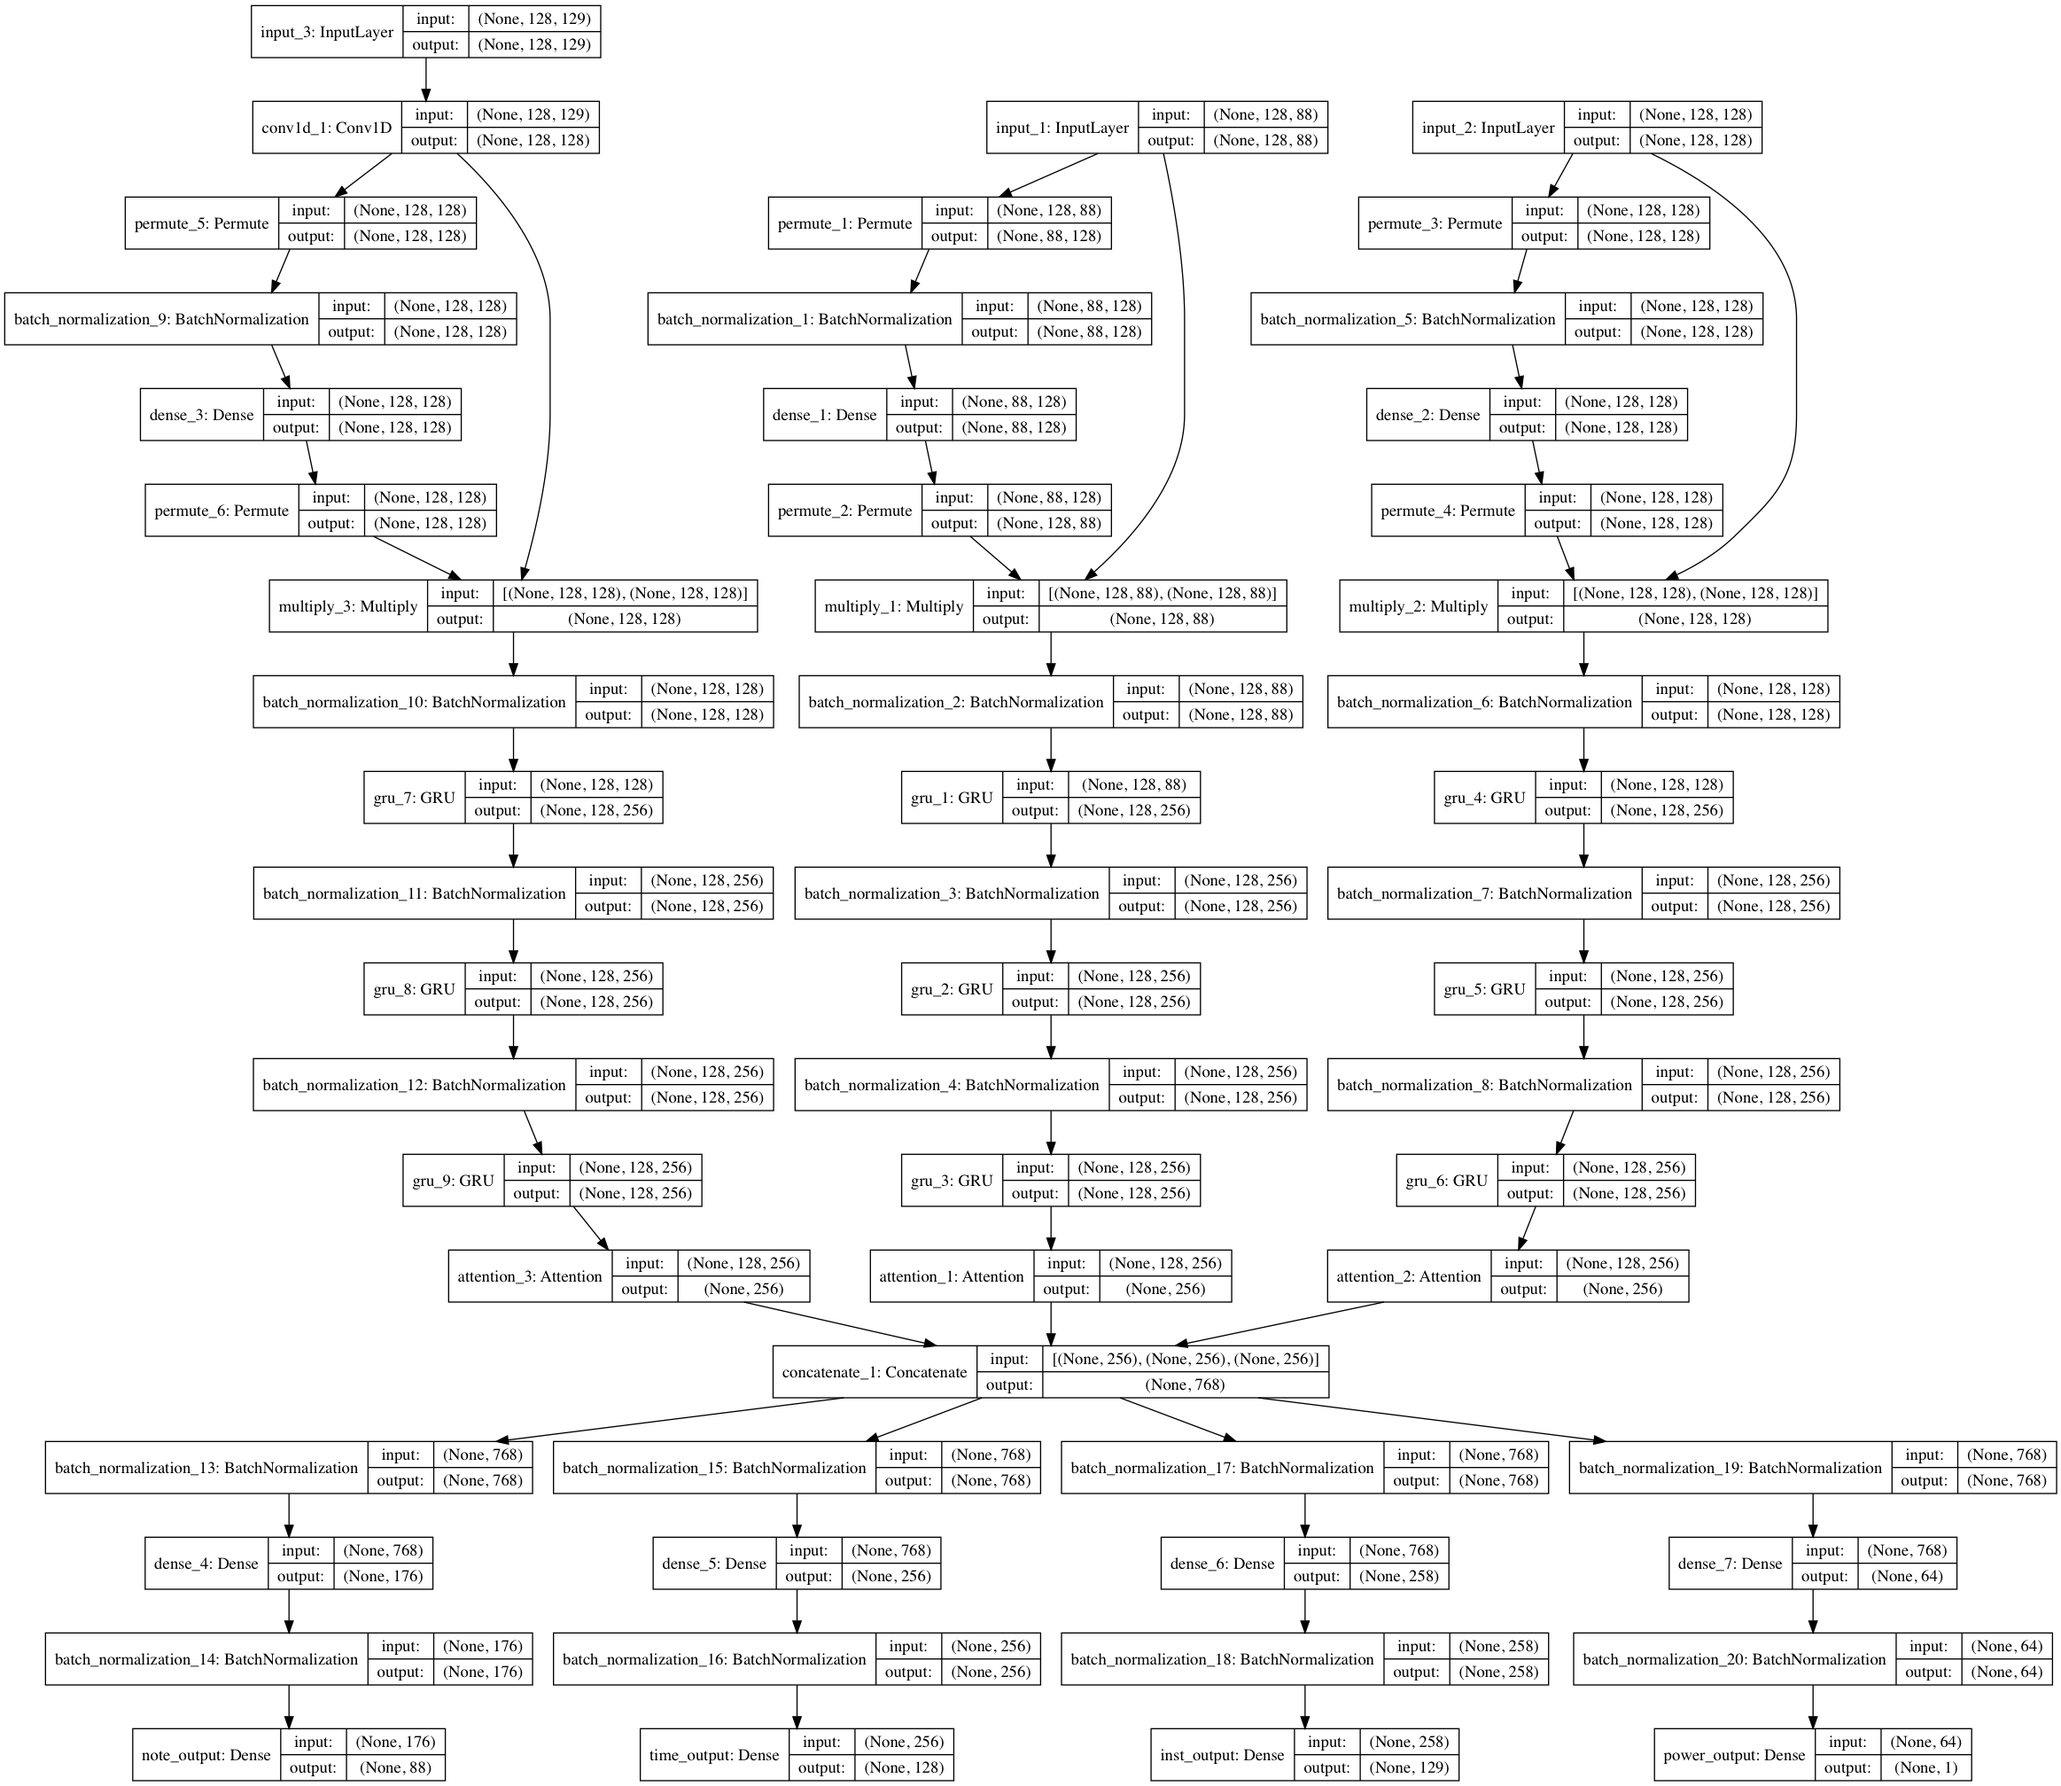
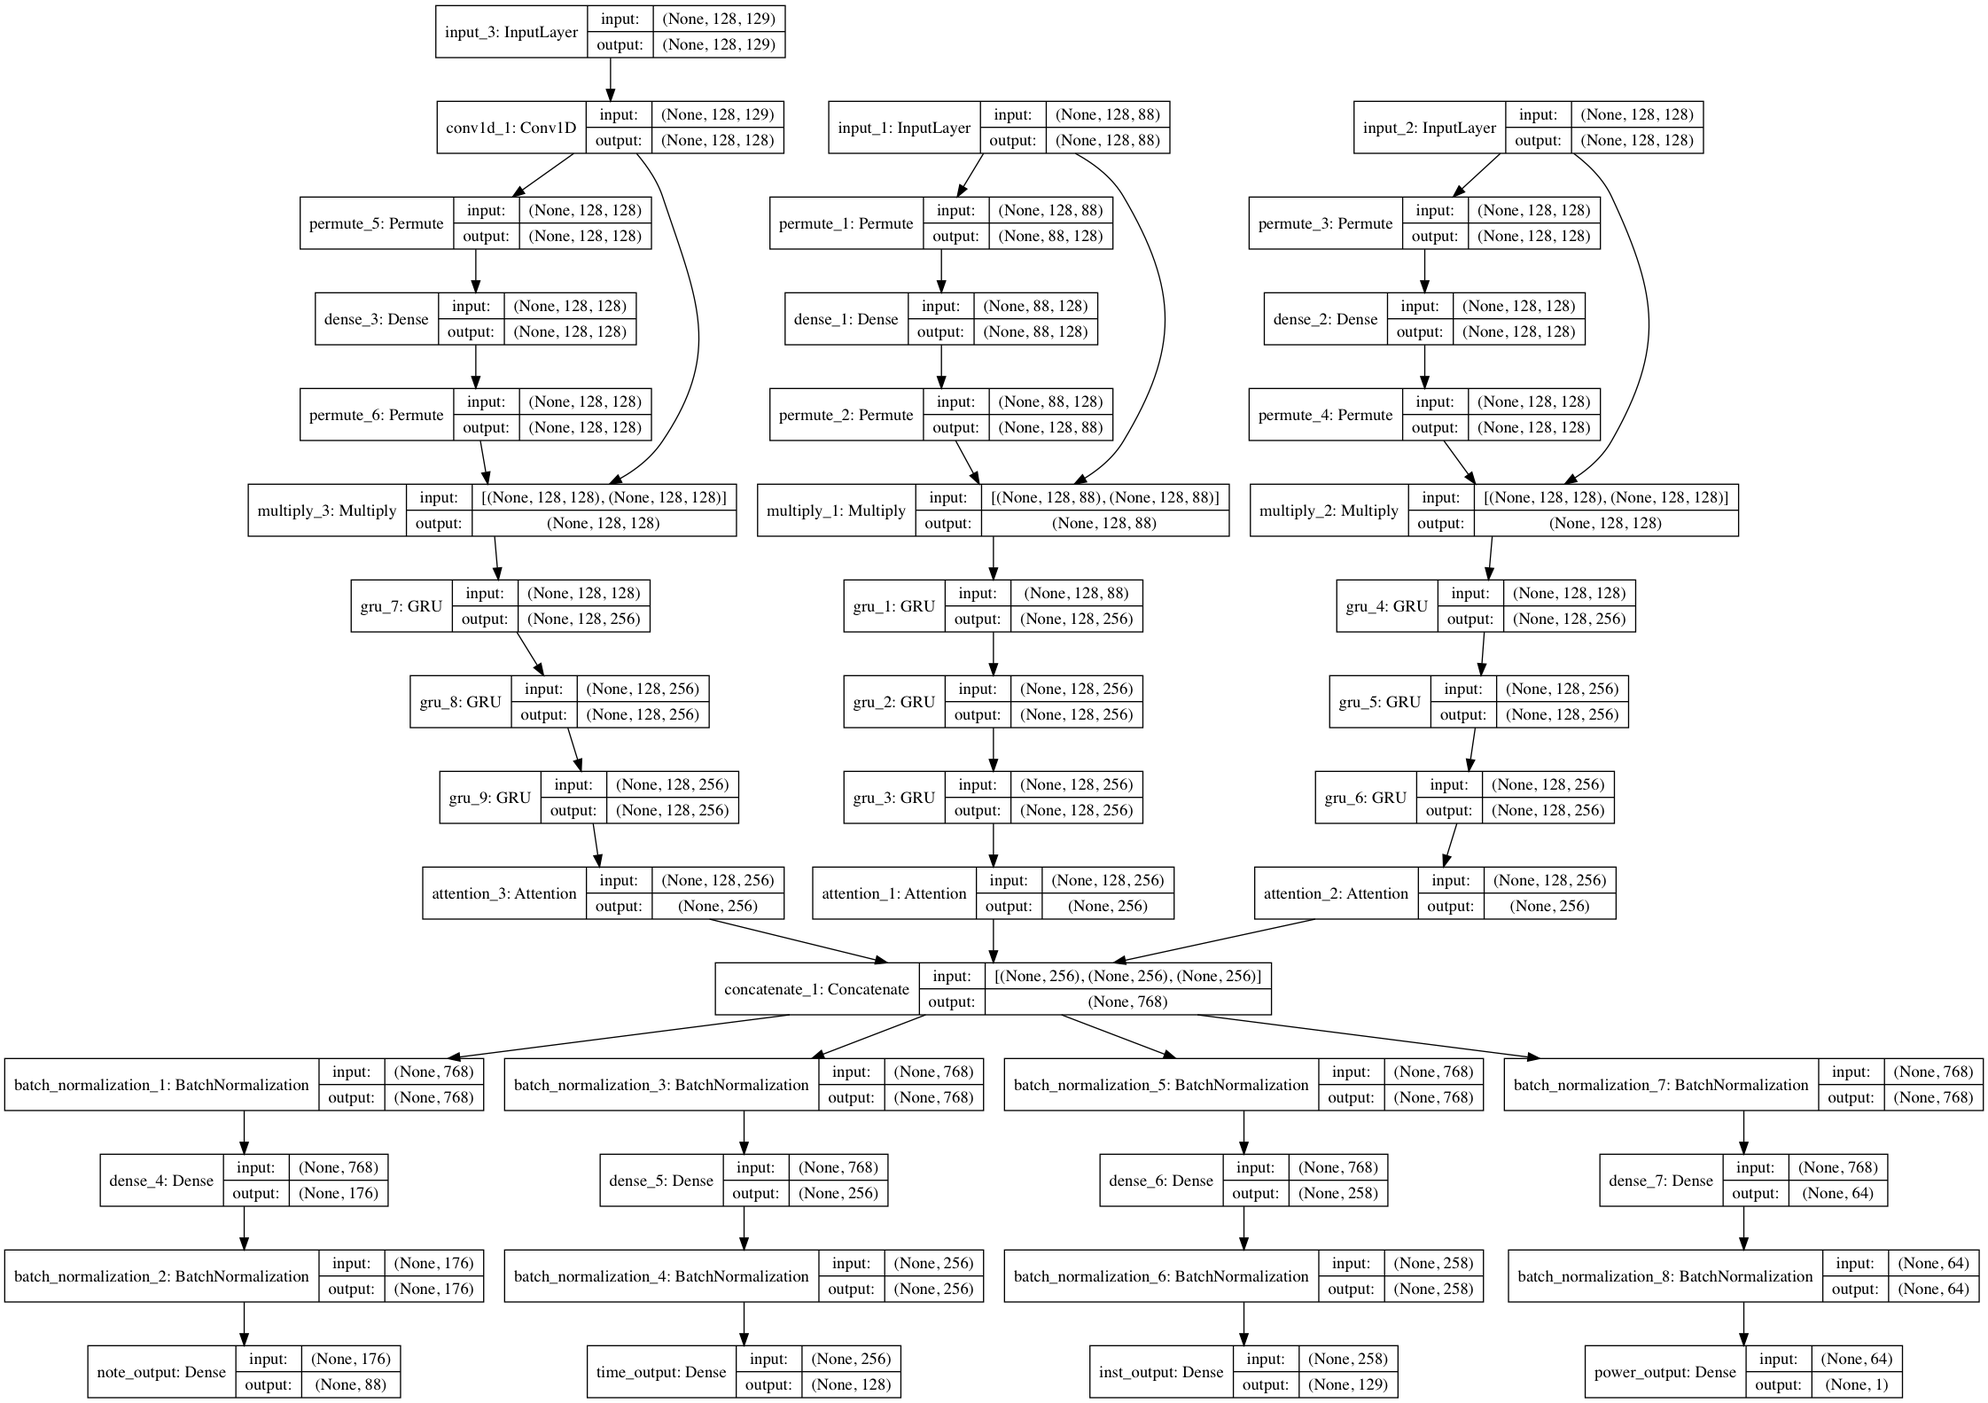
foo

Changed region(s): [[0.0, 0.0, 0.9987, 1.0], [0.8426, 0.7429, 0.8738, 0.7738]]

diff --git a/multiple_instruments/train_dir.py b/multiple_instruments/train_dir.py
@@ -225,23 +225,17 @@ def main():
     # network:
     with tf.device('/gpu:0'):
         noteInput  = Input(shape=(segLen, vecLen))
-        noteAcc    = SoftAttentionBlock(noteInput, segLen)
-        noteEncode = BatchNormalization()(noteAcc)
+        noteEncode = SoftAttentionBlock(noteInput, segLen)
         noteEncode = GRU(hidden_note, return_sequences=True, dropout=drop_rate)(noteEncode)
-        noteEncode = BatchNormalization()(noteEncode)
         noteEncode = GRU(hidden_note, return_sequences=True, dropout=drop_rate)(noteEncode)
-        noteEncode = BatchNormalization()(noteEncode)
         noteEncode = GRU(hidden_note, return_sequences=True, dropout=drop_rate)(noteEncode)
         noteEncode = Attention()(noteEncode)
 
     with tf.device('/gpu:1'):
         deltaInput = Input(shape=(segLen, maxdelta))
-        deltaAcc   = SoftAttentionBlock(deltaInput, segLen)
-        deltaEncode = BatchNormalization()(deltaAcc)
+        deltaEncode = SoftAttentionBlock(deltaInput, segLen)
         deltaEncode = GRU(hidden_delta, return_sequences=True, dropout=drop_rate)(deltaEncode)
-        deltaEncode = BatchNormalization()(deltaEncode)
         deltaEncode = GRU(hidden_delta, return_sequences=True, dropout=drop_rate)(deltaEncode)
-        deltaEncode = BatchNormalization()(deltaEncode)
         deltaEncode = GRU(hidden_delta, return_sequences=True, dropout=drop_rate)(deltaEncode)
         deltaEncode = Attention()(deltaEncode)
 
@@ -249,11 +243,8 @@ def main():
         instInput = Input(shape=(segLen, maxinst))
         instEncode   = Conv1D(filters=filter_size, kernel_size=kernel_size, padding='same', input_shape=(segLen, maxinst), activation = 'relu')(instInput)
         instEncode   = SoftAttentionBlock(instEncode, segLen)
-        instEncode   = BatchNormalization()(instEncode)
         instEncode   = GRU(hidden_inst, return_sequences=True, dropout=drop_rate)(instEncode)
-        instEncode   = BatchNormalization()(instEncode)
         instEncode   = GRU(hidden_inst, return_sequences=True, dropout=drop_rate)(instEncode)
-        instEncode   = BatchNormalization()(instEncode)
         instEncode   = GRU(hidden_inst, return_sequences=True, dropout=drop_rate)(instEncode)
         instEncode   = Attention()(instEncode)
 

diff --git a/multiple_instruments/load.py b/multiple_instruments/load.py
@@ -42,23 +42,17 @@ print('Build model...')
 # network:
 with tf.device('/gpu:0'):
     noteInput  = Input(shape=(segLen, vecLen))
-    noteAcc    = SoftAttentionBlock(noteInput, segLen)
-    noteEncode = BatchNormalization()(noteAcc)
+    noteEncode = SoftAttentionBlock(noteInput, segLen)
     noteEncode = GRU(hidden_note, return_sequences=True, dropout=drop_rate)(noteEncode)
-    noteEncode = BatchNormalization()(noteEncode)
     noteEncode = GRU(hidden_note, return_sequences=True, dropout=drop_rate)(noteEncode)
-    noteEncode = BatchNormalization()(noteEncode)
     noteEncode = GRU(hidden_note, return_sequences=True, dropout=drop_rate)(noteEncode)
     noteEncode = Attention()(noteEncode)
 
 with tf.device('/gpu:1'):
     deltaInput = Input(shape=(segLen, maxdelta))
-    deltaAcc   = SoftAttentionBlock(deltaInput, segLen)
-    deltaEncode = BatchNormalization()(deltaAcc)
+    deltaEncode = SoftAttentionBlock(deltaInput, segLen)
     deltaEncode = GRU(hidden_delta, return_sequences=True, dropout=drop_rate)(deltaEncode)
-    deltaEncode = BatchNormalization()(deltaEncode)
     deltaEncode = GRU(hidden_delta, return_sequences=True, dropout=drop_rate)(deltaEncode)
-    deltaEncode = BatchNormalization()(deltaEncode)
     deltaEncode = GRU(hidden_delta, return_sequences=True, dropout=drop_rate)(deltaEncode)
     deltaEncode = Attention()(deltaEncode)
 
@@ -66,11 +60,8 @@ with tf.device('/gpu:2'):
     instInput = Input(shape=(segLen, maxinst))
     instEncode   = Conv1D(filters=filter_size, kernel_size=kernel_size, padding='same', input_shape=(segLen, maxinst), activation = 'relu')(instInput)
     instEncode   = SoftAttentionBlock(instEncode, segLen)
-    instEncode   = BatchNormalization()(instEncode)
     instEncode   = GRU(hidden_inst, return_sequences=True, dropout=drop_rate)(instEncode)
-    instEncode   = BatchNormalization()(instEncode)
     instEncode   = GRU(hidden_inst, return_sequences=True, dropout=drop_rate)(instEncode)
-    instEncode   = BatchNormalization()(instEncode)
     instEncode   = GRU(hidden_inst, return_sequences=True, dropout=drop_rate)(instEncode)
     instEncode   = Attention()(instEncode)
 

diff --git a/multiple_instruments/summary.py b/multiple_instruments/summary.py
@@ -42,23 +42,17 @@ print('Build model...')
 # network:
 with tf.device('/gpu:0'):
     noteInput  = Input(shape=(segLen, vecLen))
-    noteAcc    = SoftAttentionBlock(noteInput, segLen)
-    noteEncode = BatchNormalization()(noteAcc)
+    noteEncode = SoftAttentionBlock(noteInput, segLen)
     noteEncode = GRU(hidden_note, return_sequences=True, dropout=drop_rate)(noteEncode)
-    noteEncode = BatchNormalization()(noteEncode)
     noteEncode = GRU(hidden_note, return_sequences=True, dropout=drop_rate)(noteEncode)
-    noteEncode = BatchNormalization()(noteEncode)
     noteEncode = GRU(hidden_note, return_sequences=True, dropout=drop_rate)(noteEncode)
     noteEncode = Attention()(noteEncode)
 
 with tf.device('/gpu:1'):
     deltaInput = Input(shape=(segLen, maxdelta))
-    deltaAcc   = SoftAttentionBlock(deltaInput, segLen)
-    deltaEncode = BatchNormalization()(deltaAcc)
+    deltaEncode = SoftAttentionBlock(deltaInput, segLen)
     deltaEncode = GRU(hidden_delta, return_sequences=True, dropout=drop_rate)(deltaEncode)
-    deltaEncode = BatchNormalization()(deltaEncode)
     deltaEncode = GRU(hidden_delta, return_sequences=True, dropout=drop_rate)(deltaEncode)
-    deltaEncode = BatchNormalization()(deltaEncode)
     deltaEncode = GRU(hidden_delta, return_sequences=True, dropout=drop_rate)(deltaEncode)
     deltaEncode = Attention()(deltaEncode)
 
@@ -66,11 +60,8 @@ with tf.device('/gpu:2'):
     instInput = Input(shape=(segLen, maxinst))
     instEncode   = Conv1D(filters=filter_size, kernel_size=kernel_size, padding='same', input_shape=(segLen, maxinst), activation = 'relu')(instInput)
     instEncode   = SoftAttentionBlock(instEncode, segLen)
-    instEncode   = BatchNormalization()(instEncode)
     instEncode   = GRU(hidden_inst, return_sequences=True, dropout=drop_rate)(instEncode)
-    instEncode   = BatchNormalization()(instEncode)
     instEncode   = GRU(hidden_inst, return_sequences=True, dropout=drop_rate)(instEncode)
-    instEncode   = BatchNormalization()(instEncode)
     instEncode   = GRU(hidden_inst, return_sequences=True, dropout=drop_rate)(instEncode)
     instEncode   = Attention()(instEncode)
 

diff --git a/multiple_instruments/attention_block.py b/multiple_instruments/attention_block.py
@@ -19,7 +19,6 @@ def SoftAttentionBlock(inputs, input_ts=None):
     if input_ts is None:
         input_ts = int(inputs.shape[1])
     x = Permute((2,1))(inputs) ## (batch_size, features, time_step)
-    x = BatchNormalization()(x)
     x = Dense(input_ts, activation=SoftAttentionBlockActivation)(x)
     x = Permute((2,1))(x)
     attention = Multiply()([x, inputs])
